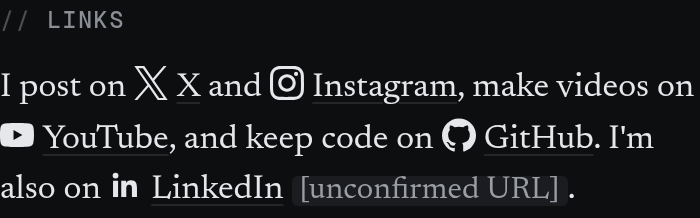
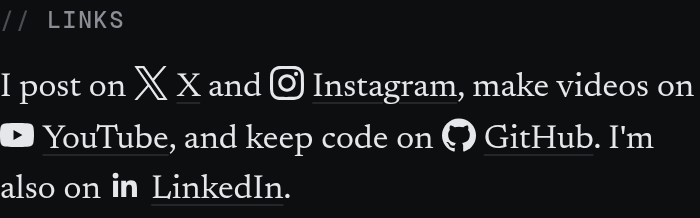
Links: LinkedIn URL confirmed, drop its placeholder
Links no longer take a todo and every url is required, so all five go
into the Person JSON-LD sameAs.

Changed region(s): [[0.39, 0.7982, 0.84, 0.9358]]

diff --git a/src/content.config.ts b/src/content.config.ts
@@ -82,8 +82,7 @@ const links = defineCollection({
   schema: z.object({
     id: z.enum(linkIds),
     label: z.string(),
-    url: z.string().nullable(),
-    todo,
+    url: z.string().url(),
   }),
 })
 
